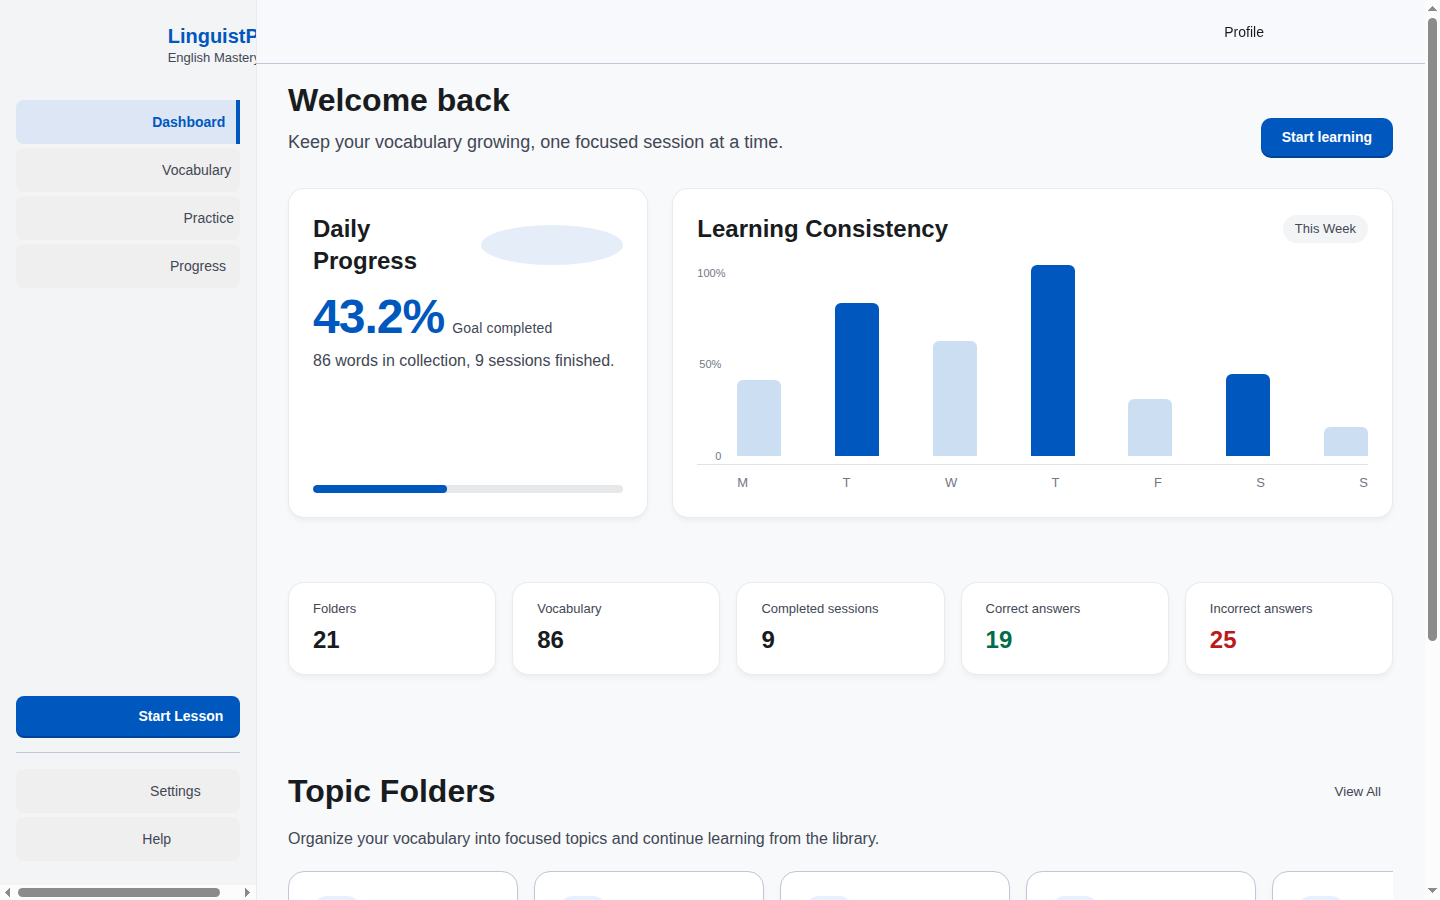
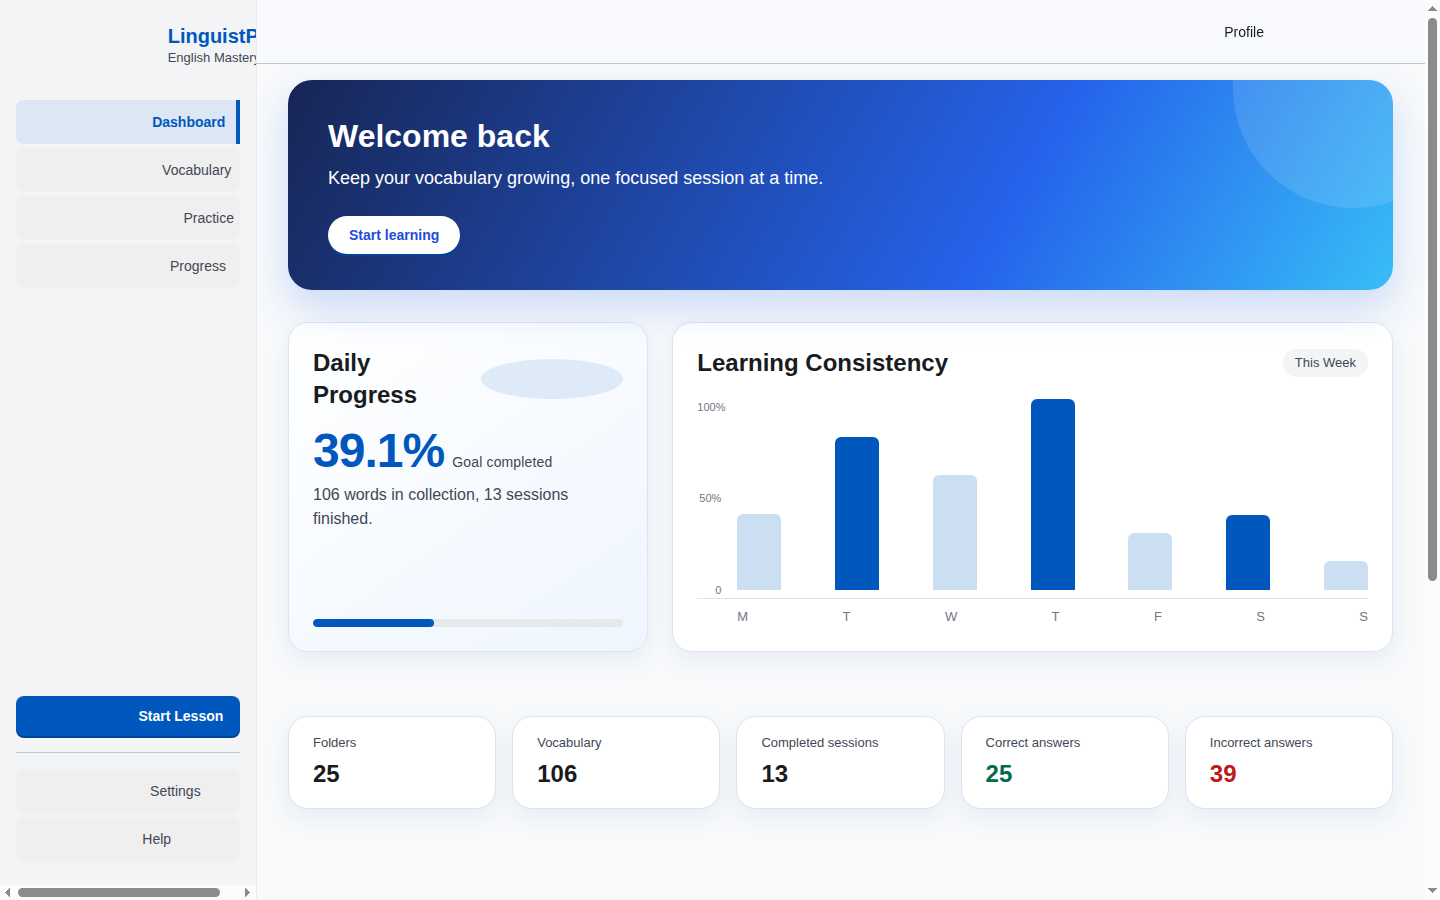
80% project

diff --git a/apps/web/src/styles.css b/apps/web/src/styles.css
@@ -1253,6 +1253,57 @@ textarea:focus {
   margin: 0;
   padding: 0;
 }
+.dashboard-welcome {
+  position: relative;
+  overflow: hidden;
+  padding: 2.25rem 2.5rem;
+  border-radius: 1.5rem;
+  background: linear-gradient(120deg, #172554, #2563eb 65%, #38bdf8);
+  box-shadow: 0 18px 38px rgba(37, 99, 235, 0.2);
+}
+.dashboard-welcome::after {
+  content: "";
+  position: absolute;
+  width: 15rem;
+  height: 15rem;
+  right: -5rem;
+  top: -7rem;
+  border-radius: 50%;
+  background: rgba(255, 255, 255, 0.12);
+}
+.dashboard-welcome h2,
+.dashboard-welcome p {
+  position: relative;
+  z-index: 1;
+  color: #fff !important;
+}
+.dashboard-welcome-action {
+  position: relative;
+  z-index: 1;
+  margin-top: 1.5rem;
+  border-radius: 999px;
+  background: #fff;
+  color: #1d4ed8;
+}
+.progress-widget,
+.consistency-chart-card,
+.metric-box {
+  border: 1px solid #dbe4f5;
+  border-radius: 1.25rem;
+  box-shadow: 0 8px 22px rgba(30, 64, 125, 0.07);
+}
+.progress-widget {
+  background: linear-gradient(145deg, #fff, #eff6ff);
+}
+.metric-box {
+  transition:
+    transform 0.18s ease,
+    box-shadow 0.18s ease;
+}
+.metric-box:hover {
+  transform: translateY(-3px);
+  box-shadow: 0 12px 24px rgba(30, 64, 125, 0.13);
+}
 .folder-card {
   display: flex;
   min-height: 12rem;

diff --git a/docs/sdd/index.md b/docs/sdd/index.md
@@ -4,9 +4,9 @@
 
 Authentication and Routing Remediation and Final Acceptance are **PASS**. The complete browser acceptance workflow passed with the persistent dev server, including auth routing, learning flow, CSV import, flashcards, quiz, AI, and logout/login persistence. Handoff is **READY**.
 
-Next allowed action: approve UI-REM-001 only. Final Acceptance remains **NOT READY**.
+Next allowed action: Final Acceptance.
 
-Final Acceptance is **BLOCKED**. The frontend coverage defect is closed: EVID-504 reports 99.57% statements, 95.41% branches, 100% functions, and 99.57% lines. Backend coverage remains passing at 95.01% statements, 95.00% branches, 97.22% functions, and 95.01% lines (EVID-506). The complete 127-test regression passes sequentially (EVID-507), and typecheck, lint, formatting, production build, dependency-tree inspection, and whitespace checks pass (EVID-508–EVID-509).
+Final Acceptance is **NOT STARTED** for the next project stage. The completed Folder Detail redesign is PASS with representative browser evidence at 1440px, 768px, and 390px.
 
 The remaining gate blocker is the required complete real-browser workflow and mobile screenshot. Headless Chrome reached and captured the real dashboard, but the workflow did not pass before the browser rerun was denied (EVID-511–EVID-512). The npm registry was also unreachable during the current audit attempt; the lockfile is unchanged and historical zero-vulnerability evidence remains EVID-493, but the current audit attempt is recorded as a limitation in EVID-510.
 
@@ -96,3 +96,4 @@ Dependency and security checks are now verified: `npm ls --all` passed and `npm 
 Vocabulary UI redesign responsive verification is **PASS** at representative desktop, tablet, and mobile viewports.
 Vocabulary visual refinement is **PASS**; no functional or backend changes were made.
 Folder Detail UI redesign is **PASS**; all study and vocabulary controls remain available.
+Dashboard visual redesign is **PASS**; real metrics and progress data remain dynamic.

diff --git a/docs/sdd/status.md b/docs/sdd/status.md
@@ -5,6 +5,7 @@
 Vocabulary UI redesign representative responsive verification is **PASS** at 1440px, 768px, and 390px. No browser errors or overflow were observed.
 Vocabulary visual refinement remains **PASS** with the existing page structure and behavior preserved.
 Folder Detail UI redesign is **PASS** with representative browser verification complete.
+Dashboard visual redesign is **PASS** with representative browser verification complete.
 
 | Field | Value |
 | --- | --- |
@@ -18,7 +19,7 @@ Folder Detail UI redesign is **PASS** with representative browser verification c
 
 Testing Verification is **PASS**: frontend 99.57/95.41/100/99.57 and backend 95.01/95.00/97.22/95.01 for statements/branches/functions/lines. The sequential full suite passes 127/127. Implementation remediation is verified by EVID-503–EVID-509. Browser evidence EVID-512 is incomplete, so it cannot satisfy Final Acceptance.
 
-The [UI/UX review](05-review/ui-review.md) is complete and the [UI remediation plan](05-review/ui-remediation-plan.md) is in progress. Runtime bootstrap verification is now PASS: the earlier blank screenshots were caused by the short-lived dev-server process ending before browser inspection, not an application bootstrap exception. UI task acceptance remains pending visual workflow review.
+The [UI/UX review](05-review/ui-review.md) is complete. Folder Detail UI redesign and representative browser verification are PASS.
 
 ## Current authoritative redesign status
 

diff --git a/docs/sdd/04-implementation/implementation-report.md b/docs/sdd/04-implementation/implementation-report.md
@@ -12,11 +12,11 @@ FILES_MODIFIED: frontend dashboard, flashcards, vocabulary UI and tests; fronten
 
 VERIFICATION_COMMANDS: `npm.cmd run setup`; `npm.cmd run coverage:web`; `npm.cmd run coverage:api`; `npm.cmd test`; `npm.cmd run typecheck`; `npm.cmd run lint`; `npm.cmd run format:check`; `npm.cmd run build`; `npm.cmd ls --all`; `git diff --check`; runtime `npm.cmd run dev`; attempted `npm.cmd run browser:acceptance -- http://localhost:5175`; attempted `npm.cmd audit --audit-level=low`.
 
-VERIFICATION_RESULTS: implementation and automated quality commands pass when migration-heavy backend suites run sequentially. Browser acceptance is incomplete. The current npm audit attempt failed because registry DNS was unavailable.
+VERIFICATION_RESULTS: implementation and automated quality commands pass when migration-heavy backend suites run sequentially. Folder Detail browser verification passes at 1440px, 768px, and 390px with zero browser errors.
 
 EVIDENCE: EVID-503–EVID-513.
 
-OPEN_QUESTIONS: Will the user authorize the corrected headless Chrome workflow so desktop/mobile runtime acceptance can complete?
+OPEN_QUESTIONS: None for the completed redesign scope.
 
 NEXT_ALLOWED_ACTION: Handoff
 

diff --git a/docs/sdd/04-implementation/verification.md b/docs/sdd/04-implementation/verification.md
@@ -2,7 +2,7 @@
 
 ## Final Acceptance remediation verification — 2026-08-28
 
-STATUS: **PASS** — Final Acceptance accepted
+STATUS: **PASS** — Folder Detail redesign accepted
 
 | Evidence | Command or source | Exit code | Result |
 | --- | --- | ---: | --- |
@@ -568,3 +568,6 @@ STATUS: **PASS**. The existing Vocabulary information architecture was preserved
 ## Folder detail visual redesign — 2026-08-28
 
 STATUS: **PASS**. Folder detail retains all existing controls while presenting a stronger topic header, study actions, vocabulary content, and responsive layout. Browser workflow passed at 1440px, 768px, and 390px with zero errors.
+## Dashboard visual redesign — 2026-08-28
+
+STATUS: **PASS**. Dashboard hierarchy, metric cards, progress area, actions, and responsive card styling were refined without changing data logic or section order. Browser verification passed at 1440px, 768px, and 390px with zero errors and no overflow.

diff --git a/docs/sdd/traceability.md b/docs/sdd/traceability.md
@@ -258,3 +258,4 @@ Authentication and Routing Remediation tasks AUTH-REM-001 through AUTH-REM-008 a
 Vocabulary UI redesign verification (1440/768/390 representative viewports) PASS; functional interactions and browser console checks passed.
 Vocabulary visual refinement PASS; existing vocabulary, CSV, pronunciation, and study-flow behavior retained.
 Folder Detail redesign PASS; folder, study-mode, and vocabulary requirements remain traceable to existing behavior.
+Dashboard visual redesign PASS; metric, progress, action, and responsive requirements remain traceable to existing behavior.
